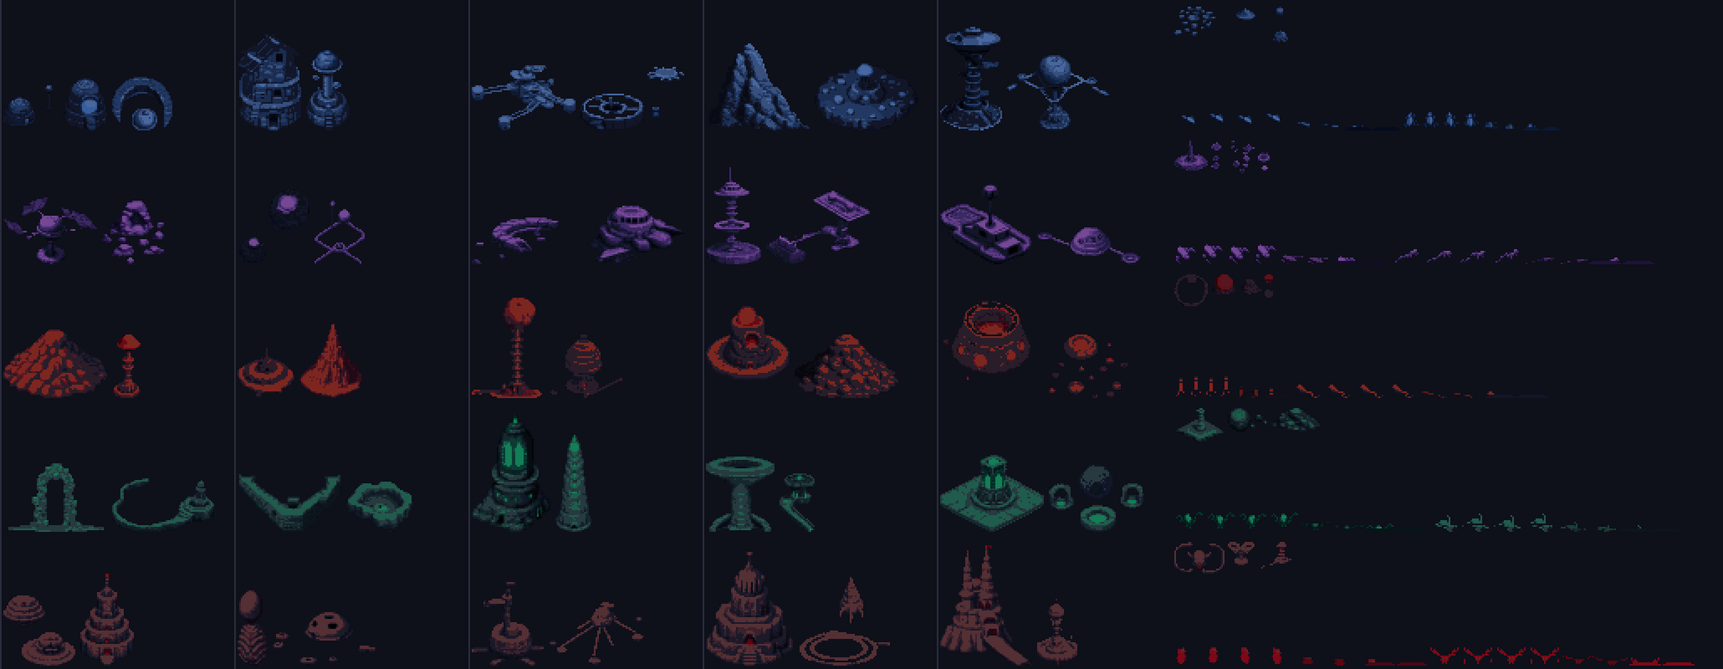
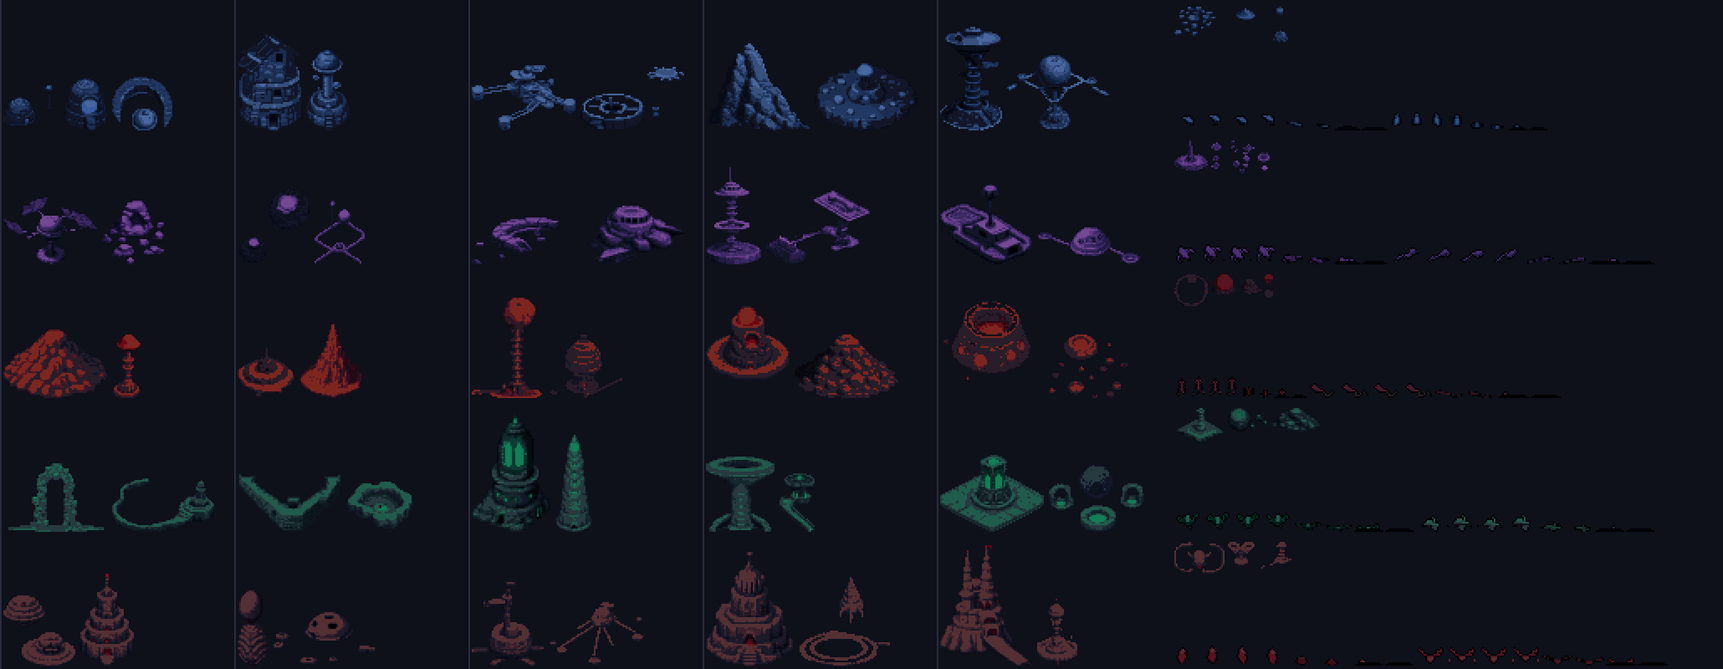
Widen ground banks, mute creatures and tune flyover readability
Regenerate strips with wider ground ledges so creatures fit, cap scenery
luminance and chroma below hostile fire, outline creatures, dash along the
bank when scattering, crop strip draws and veils to save fill rate, and add
review renders (routes grid, travel crossfade, reaction frames).

Tillandsias-Host: macuahuitl
Generated-By: tool=claude-code

diff --git a/lib/game/flyover_atlas.dart b/lib/game/flyover_atlas.dart
@@ -21,33 +21,35 @@ abstract final class FlyoverAtlas {
   static const stripWidth = 64, stripHeight = 192, variants = 3;
   static const layers = ['mid', 'near', 'ground'];
   static const layerSpeeds = [0.2, 0.6, 1.0];
+  /// Widest bank per layer (logical px): strips are drawn cropped to it.
+  static const layerWidths = [62, 58, 41];
   static const sectors = ['krybor', 'ringfall', 'ember', 'hollow', 'carrier'];
   /// Bank edge (logical x) for each sector/layer/variant/row; strips are left banks.
   static const edges = <List<List<String>>>[
     [
-      [r']]]]]]]\\\]]^^^^^^^]\[YYYXXXXXUUUUUUUUTSSRPNLMNNNNNNOQSVWXXXXXXXXXXXXWWVRQRSSSSSSSSTUUUVVXXXXXYYYZZZ[[]_________^]\\\[[[\\\]]^_aabddddddddddddccb[]]^^_^]]]]]\[[[[[Z[\[[\]]^_abcdefffffffffffdcb', r'UTTTSYZ[[[[[[[[[\]^^^^^^^^^]]]]]]\]]]]^^^^^^^^^^^]]\\^`bdeefgggggggggggfedcba`^YYYYYYYYYZ[[[[[[[[[[[[ZYXWTSSRPOOOPQQQQQQQQRRSSSUVXYYYYY^bbbbbbbbbbbbbbba`^^]]][YXWVVWWWWXX[\]]]^^^^^^^^^^^^^^^^^', r'NNNOPPPSZZZZZZZZZZZZYYXWVWXYYYYVVVVWXXXYYYYYYZZ[\\\\\\\\\\\\\\\\\\\\\\\\[[[[[[[ZZZZ[[[\\\]]]\[[ZTTUVVWXY\^_abbbbbbceeeffgiiiiiiiihhhheeefed_^^__\UVVWXYYYYYXYWWWWWWWWWVUTSSRQRSSTUUUUVUSSSSUUVWW'],
-      [r'YYYYYYYYYYYYYYYYXWVUUTSPPPPPOOOOOOOOOQQRSSVWWWWWWWWWWWWWWWWWWWWWVUTSRQPONMMMMMMMMLKKKLMNNNNNNNNOOOOOOOOOOOOOOOONNNNNNNKJJIIIIJJKMMMMMMMNNNNNMMLJIIHHHHFFGGHHIKKKKKKMMLLOPRWXYYXZZYYYYYYYYYYYYYYY', r'OOPPPPPPPPPPPPPOONLLMOPQTUUUUUUUUUUUUUTTTTTTTTTTTTTTTTTTSTTTPPPNNMLLLLKJHGGGGIIKKMMOQSTTTTTTTTTTTTTTTTTTTTTTUUUUTSSSTUUVWWXXXXXXXXXXXXWURQQQQQQQQQQQQPOOOOOOPQQQQQPQQRSSTTTTTTTTTTTTTMLMNOOOOOPO', r'SSSSSSSSRRRRRRRRRRRRRRQQQQPQQSSSSSSSSSSSSSSRJKKKKKKKKKKKKKKKKKKKKLLLLLLLLLLLLMMNNNOOOOOOOOOOOOOOOOOOOOOOOOOOOOOPQRTTUVWXXXXWVVUTSSSSSSSSSSRRQQPPPPPPPQQQQQQQQQQQQQPONMLKKKKLMMNOPQQQRSSSSSSSSSSS'],
-      [r'JJJIIIHHHGGGHGHHHHHHHHHHHHHHHHHHHIIIIIIIIIIIIHHGFFFEEEEEEEEEECBAAAAAABBBBBBBBBBBBBBAAAAABBBBBA@??????ADEGGGGGGGGGGFFFFFEEDBA>>>>????@ABBBBDDHIJJJJJJJJJJJJJJIHHHGGGGFEEFFFFFFFEEEEEFFHIJJJJJJJJJ', r'CBBBBBAAAA?>>>>>??@@@@@@@@@@A@@@AAABCDDDDDDDDDDEFGJJJJJJJJJKKJJJJKJKKKKKKKJJJJJJIIHGGHIIIJKKKKKKKLLLLKKKKKKKKKKLKKKKKKKKKKKJJJJJJJJJIIIIIIIIIIIIIIIIDDDDDDDEEFFFFFFFFFFFFFFFFFFFFFEDCCCCCDDDDDDD', r'@?????@@@@@@@@@@@@A@@@@@@@@@@@???@BCCCCCCBBBBBCCHHHHHHHHHHHHHHHHHHHHHHFEDDEEEEEFGGFGGGGGGGGGGGGGGGGGGGGGGFEEEEEEEEFEEEEEEEEECDDEFGFGGGFFFFFFFGGGGGGGGGHJJJJJJJJJJJJJJJJJJIIIIIIIIHHHHHHGF@@AAAA@'],
+      [r'__`__^\\\]]^__`aaaaaa`_[[[[[[[[[ZYYYXWVUUTSRQQPQRPPRRSTVWYZZZZZZZZZZZYYXWTTTTTTTVWWWXXXYYY[\\^^_`abbbbbbbbbbbb`_^]\\\\\]]]]]___aabddefgggggggfeedcc]^`a`_____^]]]]]\]^\\\]]__aaabceeffhhhhhhhfed', r'WVVVUXZ[[\]]^_____`````````______^____`aabcccccbccccdeefdefhiiiiiiiihhhhgfedcbaYYYZ[[[[[\]]]]]]]]]]]]\[ZYXSSRPPPPQRRRRRRRSSSTUWWY[\^^^_abdddddddddddddddd^^^^][YXXXXYZZZ[\\^___`aaaaaaaaaaaaaaaa', r'PPPQRRRXZZ[[[[[[Z[[[[[ZYXYZ[\^_``aaaaaZZZZZZYZZ[\]^^^^^^_``aaaaaaaa`_[\\\\\\\\\\\[[[[\\]]^__^]]\[[Z[[\\\\^`accccccdhiijjjjjjjkkkkllmmmmlkj^_^^__\UUVWXZZ[[[[[[Z[[[[ZYYXWVUUTSTUUVVVWWXYYYYYYYYXW'],
+      [r'^^^^^^^^^^^YYYYYYYYYYXWWWVSSRRRSSTTTTTTTTTWWWWWWWWWWWWWWWWWWWWWWWWWWVUTSRQQQQRRRRRRPPPPPQRRSTTTTTTTTTTTTTTTTTTTTTTTTTTTTTTTTTTTSTTTTTTTTTTSRQQPONMMMMMMMMLLLLLMMNNOOPPPPQW[\\\\[\\^^^^^^^^^^^^^^', r'QQQRRRRRRRSSSSSSSTUVVVVVVVVXYZ[[[[[[[[[[[[[[[[[[[ZZZZZZZZZZYYYXNNNNNLLLLLLLLMNNNNPQUWWWWWWXXXXXXXXXXXXXXXXXXXXXXXWWWXXVVXYZZZZZZZZZZZZZZZZZZYXWWRRRTTTSSSSSSTUUUUUUUUUUUUUUUUUUUTTTTTSSSOOPPPPPP', r'VTTTTSSSRRRRRRQPPOOQRRSSSSSSSSRSSUVWWWWWWWWVUUTLLLLLLLLLLLLLLLLLLMNPPPPPPPPPPPPPPPPPPPPPPQRRRRRRRRRRRRRRRRRRRRSTUVXXYZ[\\\\[ZZYXWVUTTTTTTTTTTTTTTTTTTTTTTTUUUUUUUUTSRQPOOOOPQQRSSSSSSUVVVVVVVVVV'],
+      [r'OOONNMMLLLLLKLLLMLLKJJKLLMNOPQQQRRRRRRQQQQQQQQQQQQPIHHHHHHHHHHHHIHHHHHHHHHHHHHHFFEEEEEEFFFGGGGGGGHHIKLLLLLLLLLLLLLLLLLLLKJHHGHHHGGHHIIIJKLMOOOOOOOOPPPPPPOPPPOOOOOOONMLMLLLLLMMMMNOOOOOOOOOOOOOO', r'EEEEEEEEDDDDDCCDEFFFGHGGGGGGGGGGGGGGGFGHIIHJJJJKKLLLLLLLMLLLLPPPPPPPPPPPPPOOONLKKKKKKKKKLMMMMNNPQRRRRRRRRRRRRRRRRRRRRQQQRRRRRRQRRRQQQQQQQPJIIIIIJKLLLLLLLLLLLLLLJJIIJKLLLLLLLLLLLKJJJJIIHGFEEEEE', r'JHFFDDCCCCCCDEEEEEEEEEEDDCCCCDEFFGGGGGGGGGKKKLLLLLLLLLLLLLLLKKKKLLMNNMMMMMMMMLMMNNNNNONNNNNNNNNNNNNMLLMMLMLLLLLLJJJJJIIJJLOPPPPPPPPPPPPPPPPQQQQQQQQPQQRRRRRRRRRRRRRQPPPPPPPPPPPPPPNMLLMMNNNNMLKK'],
     ],
     [
-      [r'UUUUUVVVVVVVVVVVVVVVVVVVVVVVVVVVVVVUUUTUVVWXZ[[[[[[[[ZYYXWWWWWXYZ[\\\\\\]^_abbbbcccdeeeeeeeedcbbaa``________________^^^^^^^^^^^^^^]]]]]]^^^^^^\\\\\\[[[[[[[[[[\]]^^^^^^^^]]\XWXXXXXWVUUVWWWVVVVU', r'YYYYYYZZZZZZZZZZYYXVUTSRSSTUTTSTTTTTTTTTTTTTTUUUWXYZZ\]_``````_^]]]]]]^abcdefffffffeedd_^]\\\[YZZZZZZZZZZZZZZZYYYYYYYXYYZZZ[\\]^^^^^^^^^^^^]]]\]]]]]^_````______^^^^]\[[[[\\[[[ZZZYYYYYYYYYYYYYY', r'ccZXVTSRPONNOOOOOOOOOOOPRSTVWXXXXXXYZ\]^^^]]]]]\\\[ZZZYXYXYXXYYZZZ\\\\\\\\\\\\]]]]]]]]]]]]]]]]^^____``acddeeeeeeeeddddddcbbaa_^^][[ZXXVUTSTUUUUVWWWVVWWXWWXWWWWWXXXWXXXXXXXXXXYYYYYYZ[\]]]]_`bcc'],
-      [r'\\\\\[[[ZZZZYXWVVTSRQQPOOOOOOOOOOOOOONNMMKIJKKKKKKKKKKKKJJJHHHHHHHHHHHHHHFFGHJLMNNNNMMLKKKLLMNOOPQQQQRRRRRRQQQQQQQRSTTTTTTTTTTTRRRRRRQQQPONNNNNNNNNNNNNNNNNMLLLLLNOPPPPPPPPPNOPPPQQQQSUVVVWXY[\\', r'MMMNMMMMMMMMMMLLOOOOOOOOOPPPPPMNPPQQQQQQQQQQQQQQPPOONNNNNNMMNNOQSTUUUUUUUUUUUUUUUUUUUUUUTTSRPONMLLKJJKKLNNNMMMLKJJJJJJKKKKKLMMPRVXYYYYYYYYZ\^`aabbbbbbbbbba`a`__^]][ZXVTSRPOONMMLKKKKKJIIIIJKKKL', r'SRLKJJIHHGFFFFEDDDDCBBA@ABCEEEEGHJNOPQRSSSSSSSSSRRQQQQQQPPOOOOOMMMMMLKJJIGFFFFFGHIJKLMMMMMMMMMMMMLKKKJIIHGGHIJKLNOPPPPPPTUVVVUUPPPONNNNMLLLQTTSSSSSRSSSTSRSTUWXYZ[[[[[[[ZZZYYXWVUUUUUTTTSSTTTTTT'],
-      [r'JJJFEEEEEEEEEEDDDDDDDDDDDDDDDFGGGGFGHHHHHHHHHHHHHHHHHHHHHHHHGGGGGFFFFEEEEEEEEEEEEEFFFFFFFFFFFFFFFFFFFFEEDCBAA@@??>?????@@?@@@@@@@@@@@ABCDEEEEEEEEEEEEEEEEEEEEFGHHJJJJJJJJJJJJJJJJJJJJJJJJJJJJJJJ', r'JJJJJJJJJJIGFFEEEEEDCDDCBA@@@BBCCCCCCCCDDDDDDDDDDDDDDDDDDDDDDDDCC@@@?@@@@@@@@@@AACDDDDDDDDDDDDDDDDDEEEEEEEEEEEEEEEEHIKLLLLLLLLLLLLLLLLLLLKKJIIHHIIIIIHGGEDDDFGHHHHHHHHHHHHHHHHHGGHHHHFGHHIIJJJJJ', r'RRRRQPMMMKKJJJJJJJJJIGFDDCCCDDDCCBBBBBBAA@>>>>>>>>>>>?????@DDDEEFGFFFFFFFFFFFFFFFFFFFFFBBBBBBBA@??????>>>???@@@@@ACBBBBBBBBBBBBBCCCDDDDDDDDDDDDDDDDDDDDDDFHHHHHHHHHHHHHIIIIIIIIJJJLPQRSSSSSSSRRR'],
+      [r'XXXXXXXXXXXXXXXXXXXXXXXXXXWWWWWWWWWWXXXYZ[\]]]]]]]]]]\[[ZYYYYYZ[\\\\\]^__abcdddddddddddddddddcbba``_^^_```````aaaaaaaaaaaa``__^^^^^^^^^^^^^^^^^^]]]]]]]]]]]^^^^^^^^^^^^^^]]YXWXWXYXXXWWXXXXXXXXX', r'YYYYYYXXWWWWXXXXXVVUTSSSSSSSSTTUVVVVVVVVVVVVWWWY[[\]]]]_`aaaaaa````___`abcdfghhhhhhgggggggfedcaa`________^^^]\[YYYYYYYYYZZ[\]^^^^^^^^^^^^^^]]]]]]]^^__aaaaaaaaa```_^^^]]]]]\\[[[XXXXXXXWVVVWXXYY', r'dd\ZXVUTRQPOOPQQRRRRSSSSSTUVWYZ[______________^]\\\\\\\\\[ZYYYYZZ[\\\\\\\\[\]]]]]]]]]]]]]]]]]]^__`abbbcdeeeeeeeeeeeeeeeecbbaa`^^]\[ZZZXWVUVWWWWWWWWXXYYYYYYYYYYYXXXXXXXXXXXXXXXXXXXYZZ[[[[]_`bcd'],
+      [r'````_^^^^^^]]\[ZYXWVUUTSSSSSSSSRQQRRRRRQQQRRRRRRRRRQPONNNNLKKJJJKKKLMMMMMNNOPPPPQRSRQQPOOOPQQRSSTTTTTTSRRRRQQRRSTUVWXXXXXXXXXXXVUUUUUUUUUUUUUUVVVVVVVVVVVVVVVUUUUUUUVVWWWWWWWWWWWXYYYZ[\]^___```', r'QQQRSSSSSSSSRRQQRRQQQQQQQQRRRSTTTTTTTTTSSSSRRQQQPPQQQRTUUUUUVVWWWXXXXXXXXXXXYYYYYXXXXWWWVUUUUSSRQOPPOOOOOPQRSSTTTTTTTTTTUWXXYYZZZZZ[[[[[[]bdfghiiiiiiiiihhgfffffdcbZ[[ZXWVTSSRQQPOOOOONMMMMNOOOP', r'UPPONNMLLKJJJJIHHHHGFFEDGIJLLLLMNNOOPQSVVVWWWWWWWWWWWVVVVVUUTTSRQQQQQQQQQQQQQQQQQQQQQPPPPPPPPPPOOOOOOOPPQQQQQQRRSSTTTTTTTUXZZ[[[[[[[[[[[ZYYYYXWVVVVVVVVVVVVVVX[]^^__________^]\ZYYYYZZYYYYYYYXXX'],
+      [r'NNNNNNMMMLLLLLLLMKKKJIFGGHJKKKKKKKLMNOOOOOOOOOOOOOOOOONNNNNMMLKJJIIIIIIIIJJJJIIIKKLMMMMMMMMMMMMMLKJJJIIIIIHHGFEEEEEFHIIJJKKKKKKKKKJJJJJIIIIIIIIIIIHHGGGGGGGGGGGHJMPQQQQQQQQQQQPPPONNNMMMMMMMMNNN', r'OOOOOOOOOMLJIHHHHHHGGGGHHJKLLLLLLLLLLLLLLLLLLLLLLLLLLLLLLKKKJJKJJIIIIIIHGGGGGHHHIIIIIIIIIIIIIIIIIJKKKLLLLLLLLLLLLLLNNRRSSSSSSSSSRRRRRSTTSRQPOONNOOOOONMNLLLNOOOOOOOOPPPPOOOOOONNNLLLLLMMMMMNOOOO', r'XXXXWVVVUUUUUTTTSSRQPPOONMMLKKJIJKKKLMMLLLKKJKKKKLLLLLLKKKLLLLLLLLLLLLLLLKKKJJJJJIIIHHHHGGFFEDCBA@@AABBBBBBBBBBBCDEEEFGHIIIIIIIIIIIIHHHHHHHHHHHIJJJJJJJJJJKLLLLLLMMMMMMMMMMMMMNNOSTVWXXXXXXXXXXX'],
     ],
     [
-      [r'UVVWWWWWWWWWWWWWWWVWWY[\`aabbbbbbbba`__^^__`_]\^^^_^^]]\\\\]]]]]]]]\[XVUTTTUUUUVWWXXXXXXXWWWWXWVVVVVWY\^````aaaaaaa__^]\[ZZZZZZ[[\\\\\\\\\[ZYXXWVVWWXXXXXXXXXWVUSRQQQQPOPQQQQQQPQQSSSTUUUUUUTSST', r'`_]_][[ZZZZZWVXYZYYYXWVVUVUUUSRRSSSUTTUWXYZZZZZXWTSRQPPOOQQSWWXXYYXXYZZZZYYWWWVVVVUTTTTTTUVVVVVVVVVZ\\\\^_``abbcdddddddddddddbbaXVUTSRRRRSTTUVVVVVVUVVVTTSTTUVWXXYZZZ[\\\\\[\ZYVVVWXY_`abccdeeeb', r'[[]^`cdeffggggggggggggggfedcba`^]]]]\[[\]]]^___________]]]]]]\\\\[ZZXXXXYYYXWVTSSRRRRRRRQPPONNNOOPPPPPNNMMLKKKKKLLLMMNNOPVVXZ[[[\\\\[[[Z[ZYXXWVVWWWXZ[\\]]\\\\\\\\\[ZYXWWXYYYXXXXXWWVVUVVVWWXYZ['],
-      [r'RRQRRQPQQQQPOOPQQRSTTUVUUUUUUUUVUUVUVVVVVVUVVUUUVUUVVVVVVWVVVUVVVVUUUUUUUUTNNONNNNNNMNOPQQQQRQQQQQQRRRRQQRRQQQQPPQPOONMMMMIIIHHJJJJKJJIJJJKLMLMLMMNNONNNNNNNNOOOOOOQQRSSTSSRTTTTSSSSSRRRRQOPPPPR', r'KKKLMMMMMMMMMMMMMMMMMMMMMMMNNNNNNNNNMMMMMMMMMMMNNNNNNNNNNNNNNNNNNNOQUUUUUVUUVVVVVVVVVVVVVVVUUVVVVVVVVVVVVVUUUUVVUVVVVVUVVVWVVWWVVVVVVVUUVWVVVVVVVVVVVUUUUTSSRQQOMNNOOPQRSSSSSSRQQQQPOONMMLKKKKKK', r'QPONLKJHGGGHIIJKHIHGGFGHKLMMNOOOOOOPPOOPPPPPPPPQQQQQPOPQPQPPPRTTTTTTTTTTTTTTTTTTTTTTTTTTTTTTTUTUUUUTUUTSSSSSSSSRSSSSSSSRQQQQQPOPQQRSSTTUUTTTTTTTTTTTTTTTTTTTTTTTTTTVTTTTTTTTSRQQPOOOPQQQRSSSSSSR'],
-      [r'GGGGGGGGGGGGGGHIHHKKKLMMMLMMMMMMMMMMLKKKJIIHGGGHIIIIIIIIIIIIIIIHGGGGGGFFGGGGGGGGGGFGGGGJKLMNOOOOOOOOOOOOOOOONMLKJIHGGFEDCC@CCCCCCDEEEEFGGFFFFJKKKKKKKKJIIIHGFEEDCCBBCDEEFGGGGGGGGGGGGGGGGGGGGGGG', r'GGGGGGGGGGGGHIJKKLLMMMMMMMMMMLKKJIHGFEEEDEEEFGGGGHIIIIIIIIIIIHGGGGGFEEEEEEEEEEEEEEEEEEEEEEDCCCCCCDEEEEEEEDEEDEEEEDFGGHIIJKKKKKKKKKKKKKKKKKKKKKKKKKKKKKKKKKKKKKKLMMMNOOOOOOOOOOOONMMMLKKJIIHGGGGG', r'CCBAAAAAAAABCCCCEEEEEEDEFGGFFGGHIIIJJJJJKKKKKKKKKKKKKKKJKKIKKKKKKKKKKKKKKJIIIIHGGIIIIIIIIIIIIIIIIIIIHGGGGGGGGGGGGGGGGGGGGGGHHIIKKLMMMMMMMLMMMLKKJIHGFEEDEEEFGGGGGGGGGGGGGGGGGGGGFEEEEEEEEEEEDCCC'],
+      [r'UVVWWXXXXYYYYYXXXYYYZ\abcccddddddcccba```acb_]\^^^_____`abbbbbbbba_][ZYYXWWVVUUWWXXXXXXXXXYYZZ[[^_`abccdddddddccbbaa`]]\[[[\\\]]]]]]]]]]]]\[YXXWWWWWXXYYYYYYYXWUSSSRSSTTTTTSRQQQQRSTUVVVVVVUTSSS', r'ca^^]\[[[[ZZYZZ[[ZZZYXXXXXWWWVTSSSTUVXYZZZ[[[[[[[[[[[[ZZYXXWWXXXYZ[\\\\\\\[[[[[\\\\]]]]^^^^^^]]]]\[[[[\]^abccdddddddddddddddddddcba`_\TSRSSSSTTTTUUWXYZYZ[[[[[[[[[ZYXXXYZ[[[[[ZYYYY[\]]]^deeeeed', r'^^^_acehiiiiiiiiiiiiiiiihgeddbaa`___^]]^________________^]]]]\[[[[[ZZZZ[[Z[[[ZZZZZZZZZZYYXXXWVUTTRQQPONNMMLLLLMMLLLMMNNOPUVWZ[\\]]]]]]]\[ZZZZYYYXXYYZ[]]]]]]]]]]\\\\\\[ZZZZZZZYYZ[[[[[ZYYYZ[[\\]'],
+      [r'UUUUUUUUUUUTSSTUUVVWXXWWWWWWWWWWWWWXXXXXXXXXXXXXXXXXWWWWXXWWWXXXWXWWVWWWWWWWWWWVUUOOOPQRRRRRRRRRRRRRSSSRRSSSSSRRRRRQQQPOPPONNMLLLLLLKLLLLMNOOOOPOOOOOPPPOOOOOPPPQQQRSUVVWWVWVVVVVVVVVVVVVVVVVVVV', r'OOOPQQQQQQOOOOOPPOOOOOPPPPOPPOOOOOOOPOOOOPPOOOOOOOPPPPPPQRRRRRRRRRRYZZZZ[[ZZZZZZZZZZZZZ[[[[[[[[\[[[[[[[[[[[[[[[[[[[ZZVVWWWWWWXYYYYYYYYYYYYYYYYYYYYXXXXXXXXWWVUUTSRRSSTUVWVVVVVVUUUUTSSRQQPOOOOOO', r'TTSRPONLKKKLMMNNNNNNMMMOQQQQRSRRRRQRRRSSSSTTTTUUUUUUTSTUUVVWWWWXXXXXXXXXXXXXXXXXXXXXXXXXXXXXXYYYYYXYYXXWWWWWWWWWWWWWWWWVUUUUUTSTUUVVVVUUVVWWXXXXXXXXXXXXXXXXXXXXXYXXXXXXXXXXWVUUTSRPPQQQRRRSTTTU'],
+      [r'MMMMMMMMMMMMMMNOOPQQQRSSSSSSSSSSSSSSRQQQPOONMMMNOOOOOOOOOOOOOOONMMMMMMMMMMMMMMMMMMMMNOOPQRSTUUUUUUUUUUUUUUUUTSRQPONMMLKJIIIIIIIIIJKKKKLMMMNNNPQQQQQQQQPOOONMLKKJIIHHIJKKLMMMMMMMMMMMMMMMMMMMMMMM', r'MMMMMMMMMMMMNOPQQRSSSSSSSSSSSRQQPONMLKKKJKKKLMMMMNOOOOOOOOOOONMMMMMLKKKKKKKKKKKKKKKKKKKKKKJIIIIIIJKKKKKKKKKKKKKKKKLMMNOOPQQQQQQQQQQQQQQQQQQQQQQQQQQQQQQQQQQQQQQRSSSTUUUUUUUUUUUUTSSSRQQPOONMMMMM', r'IIHGGGGGGGGHIIIJKKKKKKKKLMMMMMMNOOOPQQQQQQQQQQQQQQQQQQQQQQQQQQQQQQQQQQQQQPOOOONMNOOOOOOOOOOOOOOOOOOONMMMMMMMMMMMMMMMMMMMMMMNOOPQQRSSSSSSSSSSSRQQPONMLKKJKKKLMMMMMMMMMMMMMMMMMMMMLKKKKKKKKKKKJIII'],
     ],
     [
-      [r'_______________ZYYYYYYYYZ[[\]]]]^]]]]^^^^^^^^^^^^aaaaaaaaaaaaaaaa`_\\[[[[[\\]]]]]]]]]]\[ZYXVUTRQQPQQRSSSTUUUUUUVVVWYZZZZZ[\]^^_aaaaaaaa`_^]\[ZYYZ[[[\]]]^___[[[[[[[[\\\\\\\\\\]]]]]\\\\]]]]]^___', r'[\]][[ZZZZYYYYYXWWWWWVVVVVVWXZZ[[[[[\\\]^^^^^^^^^^^^^^[\\\\\\[[ZZ[\^__```aaaaaaaaaa`_____ZZZZZ```aaaaaaaaaaaaa`__^]]][[XXXWWWXXWVVVVUSSRQRSSTTTU^_`abcdeeeeeeeedcccba`aaaaaa`_^]\[ZYXWVUUUUVWXYZ', r'[[[[[ZYYYYYYYWVVVUSSSSSRRRRSSSTTUUUUUUUUUUUURQRRRSSSSSSSSSTUWXYYYYYYYYYYYYYYYXXXYZZZZZZZZZZZZZZZZZZZZZZZ[`cefgggggggggggggggggfedccbaaaaaaaaa`__^]]]\[[[[[[[[[[[[[[[ZYXWVUTRQPPQRTUVUSSSSUUUUUUV'],
-      [r'XXXXXXXXXXXYZZZaaa`___^^^^^]YYYYYYXXXXWWWVVVVWWWWVUUUTSSSSSSSSSRRQQQQQPOONMMLKKKKKKKKKKLLLKKKKKKKKNPQQQRRRRRRRRRRQQQQQQQQQPOOOOOOOOOOOOOONMMMMMLMLKKKKJKKKKIIHHHHHHIKKLMMMMMNNRSSSTTTTTTTSTTUUUU', r'XXZZYYYXWWVUUUUUTSSRRUUUUVWWWWWWWVUUUTPPPQPONNOOOPQQQQQQQPPLNOOOOOOORRRRSSSSSSSSSSRSSSSRQQPOOOPQQQQQQQQNNNMMMMMLLHHHHFFFFFFFFFFFFEDDDDKMMMMNOONNPPRWYZZZZZZZZZZZZZZZZZZZZYYXUUUUTUUUUVVWXXXYYYYY', r'WXYYZZ[\\\\\\\\\\\\XXWWWUUUTSSRQQPOOLLLLLLLJHHHHHHHHHIIIKKLMMMMMMMLKKJJKKKKKKKJKKJJJJKKKKKKKKKKKLLLLLLLLLLLLLLLLLLLLLKJIHHHIJJJJKNNNOOOOOOOOOOOPPPPPOOPRRSSSSSTTTTTTUVWXYYYYYYYYYXXXVVVVVVVVUUVW'],
-      [r'GGFEEFGGCCCCCCCCDDCC@@@@@@@@@@@@@@@@?????>==:::;<<<<<<=>>>>?@BDDEEEEEEEGGGGGGFEEDCCCCCCCCCC>>>??????>?????????BCDDEEFEEEEEEEEFFFFFHIJLLLLLLLLLLLLLLKKKKKKKGGFDDDFHHHHHHHHJJJJJJJJJJJJJJIIIIJJJIH', r'KKKKKKKKKKJIIIHGGGGDDDDDDDCCCCCCCCCDDBCDDDDDDDDDEEFFFFFFFFFFFFFEEEEABBBBBBBBBBBBBBBBBBBBCCCCCCCCBBBBBBCCCCCCCCCDEFFHHHHHIIIIIIIIIIHHHHEEEEEEFFFGGGGGGFFFFFFFGHHHHHHHHHHHHHHHHHHHHHHHIIJJJJKKKKKK', r'DDDDDDDDDDDDDD@AAAAAAACDDDDDDDDDDCDDEEEEFFFFFHHIIIIIIIIIIIIIHHHIJJJJJJJJJJJJIIIEEEEEEEEEEDDCDDDDDDDDDDDDDFFFFFFFFFFFFFFFFFEEEFFFFFFFFFFEBBCCCCCCCCCBBBBBCCCCCCCCBFFFFFFFFFFFFFFFFFFFFDDEEEEEEEEE'],
+      [r'````````````````_]]ZYYYYZ[\]^___________________`abbbbcbbbbbbbbbbbaa`]]]]]]]]]^^^^^^^^^]\[ZXWUTSSRSSTTTTTTUVVVVWXYZ[[[[[[[]]__`aaaaabbbba`_^]\[[\]]]^___`aaaaaa`_^]]\\\\\\\\\]]]]]]]^^______````', r']^^^^^^^^[[[ZZYYYYYYYYYYXXXYYZ[[[[[[\\\]^^____````````````_^]]]\\]^^__aaaaaaaaaaaaaa__]\\\\\\\`bccccccccccccccbaa`_____^\[ZZZXXXXWWWWVUTSTVVVW\^`abcdeeeeeeeeeeeeeedddddccccba`_^]\[ZYXWWWWXYZ[\', r']]]]]\[[[[[[[[[[[[[RQQQRRRRSSTTTUUUUWXXYYYYYXXUUUSSSSTTTTUVVWX[_`aaaaaaaaaaaaaaaaa`\\\\\\\\\\\\\\\\\\\\\fhhhhhhhhhhhhhhhhhhhhhhgfeecbaaaaaaaaaa_`___^]]]]]]]]]]]]]]]\[ZYXWVQPQRSRRRRRRSTUWWW]]]]'],
+      [r']^_____aabcddddddddddddddcbaa`___^]]]]]]]\\[ZZXXXXXXXXWWWWWVVVVVUTTTTTTQPOQPPOOOOOOOOOOPPQQQQQQRRPPQRSSSSSSSSSSSSSSSSSSQQQQQQQQRRRRRRRRRRRQQQQQQQPMMMMMLLLLLLLLMNOOPPPPPPQRSSSTTTVVWWWWWWWWXXX[]', r'^^^^]]]\[[ZYYYYYXWWWXYYYYZ[[[[[[ZYXWVVUUUUTSQQSSSTSTSSSSSSSSRRQRRRRRSTUXXXXXXXXXXXXXWWWVUUTSSSTUUUUTTSSSRQQQQPPOHHHHHGFDDEFFFPPQQQQQQQQQQQQRTTUVVWX[\\\\\\\\\\\\\\[[[[[[ZYZXYYXXZZYYYYYXYZZ[\]]^', r'[\\\\\\\\\\\\\\\\\\\\[ZZZYYWWSSSSSSSRQQQPPQQQQQQQQQQQQQQQQQQMMMMMMMMMMLNNNNNNMMMMMMMOOPQSUUVVVVVVVVVVVVVVVVVVVVVUUTSSTUUUUUUUUUUUUUUUUUUTTSSSRRRRQQQRRSTTTTTTTTTTTTTTWY\]]]]]]]]]]]]]]\[[[[ZYYZ['],
+      [r'KKKKKKKKKKKKJIHIIHDCBBBCCDDGGGGGGGHIIIIIIIIIIIJKKKKKKLMMMMLMMMMIJJLMMMMMMMMMLKIGGGGGGGGGGGFFDEEEDEEEEEFFGHHHHHHHHHHHHHHHGGGGGGGHHMNOOOOOOOOOOOOOOLLKKKLNNNNNNNNNMMMLLMLLKKKLMMMMMMMMMLKJJIIIIJJK', r'ONNNMMMMLLLKKKKKJIHIIIHHHGGFFHHHIIIIIIIIIIIJKKKKKKKKKKKKKKJJIHHHIIIIIIIIIIIIIHIIIIIIIIHHHHHHHHHHHHHGGFFFGGGGHHIIIKNNPPPPPPPPPPPPPOOOOOOOONNNNNNNNMMMMMLKKKKKKLMMMMMMNOOOOOPPPPPPPPPQQQQQQQQQQQQQ', r'IIIIIIIHHHHHHHHHHHGFGFGHGGGIIIIIIIIHHHIIIIIIIIIIIIIIJJJJKLLLLLLLLLLKJJJIIIIIIIIIIIIIIIIIHGFFEEIIIIIIIIIIIIIIIIIIIIIIIIIIIIIIIIIGGFFFGGGHIIIIIHGHHGHHHHIIIIIIIIIIIGHHHHHHHHHHGFFGGGGFGGGGHHHHIIII'],
     ],
     [
-      [r'aa````YYYYYXXWVVVUUTLLLLNOPPPPPPPPPPPPPPPPPPPPPRTTUVVVVVVVVWXXXXXXYZ[[[[[[[[[[[[[[[[Z[[[[ZYZYYXWYYYZZZZZZZZZZZZZZZ[[[[[[[[[[[ZZZZYYYYYZZZYXWWXYZZZZ[]^```````````````_______bbdeeeeeeeddddddccaa', r'_\\\\\\\\\\\\\\[[[ZYYYYYYYZZZZZYYYXXXXWVTSRRRRRRSTTTTTSRRRRRRRRRQQPNOOOOOOPPQRRRRRRRRRRRRRRRRRSTUVWXXXYZZZZZZZZZZZZZZ[\\\\\\\\\\\\\\\\\\\\\\\\[\\]]]]]]]]]]]]]]]^__`````````````````````````____', r'______^UUUUUUUTTSSRRRRRRRRRQPQQQQQQQRRRRRRRRRRRRSTUUUVWXYZ]_____`bdffffdcb`__^^^^^^^\\\\\\\[[[[ZYRRRQQQQQQRTUWXXXXXXXXXXXXXWUUUUUUUTTSRTUVVXXXYYYYYYZZ[]^^^^^^^^^^^^^^^^]]\]]^^^________________'],
-      [r'MMMMMGGDIIHHHGGFFFJJKKKKKLLMMOQQQQSWXYZ[[[[[[[[[[[[[[[ZYYYXWWWWVUUUTUUTUUUUUUUVVWXYYYYYYYYYYYYXXXWWWWVUUUSSPOOPOONNMLLLLKKJHIHGGGGFEEEDDDCCCDEHJKKKKKLLLMMNNPRSSSSSSSSSSSSRRQQPOOMMMMMMMMMMMMMMM', r'UUUUTSSRQPONMMLKKKLMMMMMMMMMMMMLLLLKLLKKKKKLLLLLLLLKJJIJJKKJJKLLMNPQQQRRRRRRRRRRQQQQQQQQQQQQQQQQQQQQQPNMMNOOOOOOOOPPPQQQQQQQQQQQPONONNNNMLOOOOPPQQQQQQQQQQQQQQQQPNMLOOOONMLLKKKJJKLMMNNOPPPQQQQU', r'RRRRRQPPPPPPPPPPPPPPPPPPPPPPPPPPPQQQQQQQQQQQQQQQQQQQQQQQNQQQQQQQOOOQQQQQQQPPNNMLLLKIJHHGGIHIIIIHJKOOOOOOOOOONOOOOOOOOOOOOOOOOONNNNNNMKJIHHGGGGGGGGGGGHHJJJJJJJJMMNOPPPPQQQQQQQQQQPPOOOOOOOPPPQRR'],
-      [r'DDDDDDDDBDCDDDDCDDDDDDDDDDCDDDDDD;;;;;;;;;;;<>>=BCCCDDDEEEEEEEEEEEEEEEEEEEDBBCDDDDEEEEEEEEEEEEEEEEEEEEFFFGHHHHHHHHHHHHHHHHGFEDCBA@BBBBBBBBBBCCCCCCCCCCDDD<=>>>>>>>>>>>??@@ACDDDDDDDDDDDDDDDDDD@C', r'EEEEEDCCCDEEFGGHHGHHIHHHHHHGGHHHHHGGGHGHHHIIIIIIIIIIIIIIIIIIIIIIIIIIIHIIIIIIIIIHGGGGFGGHIIIIIIIIIIIIIIIIIIIIIIIIIIIIIIIIIIIIIHGGGGFGGHIIIIIIIIIIIIIIIIIIIIIIIIIIIIIIIIIIIIIIIHGFEEEEEEEEEEEEEEEE', r'GFGGGGFGGGGGGGGGGGGGGGGGFGGDEGGGGGGGGGGGGGGGGGGGGGFEEDCC><<=>>?@@@@@ACCCDEEEEFGGGGGGGGGGGFGGFEEEDEEFGGFGGGGGGGGGGGGGGGGGGGGGGGGGGGGGGGGGGGGGGGGGFFGGGGFGGGGGGGGGGGGGGGFEEDBEEFGGGGGGGGGGGGGGGGGG'],
+      [r'eeeeee^^]]]YYYY[[YXVUTOOOPPQQQQQQQQQQQQRRRSSUUUUUVWY[\\\\\\\\\\\\\\\\\\[[[[[[[[[[[[[[[[[[[[[ZZYZZZ[[[[[[[[[\\\\\\\\\\\\\\\\\\\\\\\\\\\\\[[ZYYZ[[[[[\^_________```aaaabcefggghhhhhhhhhhhhgggfeeee', r'\\\\\\\\\\\\\[[[[[[[[[[[[[[[[[[[[ZZZZYYWWWTTTTTTUVVVWWWWWWWWWWWVTSRPQQQRSTUVVUVVVVVVVVVVVVVVVVVVWXYZZZ[\\\\\\\\\\\\\\\\\\\\\\\\\\]]^_`aaaaaaaaaaaaaaabcdeffffffffeeeeeedcccccdeeeeeeeeeedccbaaaa', r'______]]VVUTTTSRRRRRRRRRRRRRRRSSSTTTTTTTTTUUUUUUUUUVVWWX\^^_____bdfhhhhfedba`_____^^^^^^]]]]\\[ZZZYYSSSSSSTTUVVXXXXXXXXXXXXXXXXXVVVVVVVVVVWXXXY[\\^_`````````````````_____^^^^^^________________'],
+      [r'OOONMHIJIIIHHHHHHHIJLLLMNNNNNOQQQTVXX[\\\\\\\\\\\\\\\\[[[[[ZZYYYXXWWVVVVUXYZ[\\]]]]]]]]]]]]]]]]]]]\\\[[[[[[ZYYXWVVVUTTSSSSRRRQPPPPPONNNNNNMMMMMMNNNNNPQRRRSSSTTTTTTTTTTTTTTSRRRQQQPOOOOOOOOOOOOO', r'RSSTTTTTTTSRQQPOOOPQQQQQQQQQQQQQQQRSSTTTTTTTTTTTTTTRRPPPPPJKLMNOPQRSTUVVVVVVVVVVUTTSSSTTTTTTTTTTTTTTTSRQQPPPPQRRRSTTTTTTTTTTTTTTTTTTTTTTTTTTTSSTTTTTTTTTTTTTTTTSSSSSSRQQPMMLLLLLMNMMMNNOPPQQPPPP', r'VVVVVUTTRQPPPPPPPPPPPPPPPPQRRRRRRRRRRRQPPPPQRRRRRRRRRRRRRQPPPPPPPPPPQRRRRRRRRRQPPPPPPPPMPPPOPPPPPPPPPPPPPPPPPPPPPPPPPPPPPPPPPPPPPPPPPPPPPPPPPPPPPPPPPPPPPPPPPPPPPPPPPPPPPPPPPPPPPPPPQRRRRSTTTUVV'],
+      [r'GHHHHHHHHHHHDDIIJJJJJJIHHIIIIIIIIF@@@@@?>>>>>EFEFFDEJKKLMNOOPPPPOPPPPPPPPPPPPPOMHGGHIJLMMNNNNNNNNOPPPPOPPOPPOONNNNNNNNNNNNMLKJIHGJLLLLLLLLLLLLLLLLKJHHGFEEEFFFFFFFFFFGGGGGGHHHHHHHHHHHHHHHFFFFFF', r'HKKKKJIIIFKKKLLLLLLLLLLLLLLLLLLLLLKLLLLKLLMMLMMMMMMLMMMMMMMMLMMMMMMMMMMMMLMMMMMMLMLLLLLLLKLLLKKKLLLKKKJJJJKKKLLLLKLLLLLLLLLLLLLLLKLMMMMMMMMMMMMMMMMMMMMMMMMLMMMMMLMMMMMMMMMMLLLLKKKKKKKKKKKKKKKK', r'LKLMMMLMMMKLMMMMMLMMMMMMLLLLLLLLLLLLLLLLLLLLLLLLLLLLLJIIGGGGGHIIIIIIIIIIJJJKKLLMMMMMMMMLLLLLLKKKJKKJJKKLLLLLLLILLLLLLLLLLLLKLLMMMMMMMMLMMMMMMMMLMLMLMMMMMMLMLMMMLLLLLLLKKJJKKLLLLLLLLLLLLLLLLLLL'],
     ],
   ];
   static const sprites = <FlyoverSprite>[
@@ -118,15 +120,15 @@ abstract final class FlyoverAtlas {
     FlyoverSprite(4, 4, 'flagship-escort', 430, 129, 24, 40),
   ];
   static const creatures = <FlyoverCreature>[
-    FlyoverCreature(0, 'frost-hopper', 'walk', 0, 16, 14, 8),
+    FlyoverCreature(0, 'frost-hopper', 'walk', 0, 15, 14, 8),
     FlyoverCreature(0, 'shell-crawler', 'crawl', 15, 11, 13, 8),
     FlyoverCreature(1, 'rock-mite', 'walk', 29, 15, 13, 8),
-    FlyoverCreature(1, 'dust-grazer', 'crawl', 43, 19, 10, 8),
-    FlyoverCreature(2, 'cinder-newt', 'walk', 54, 8, 14, 8),
-    FlyoverCreature(2, 'ash-borer', 'burrow', 69, 18, 10, 8),
-    FlyoverCreature(3, 'spore-crawler', 'crawl', 80, 18, 13, 8),
-    FlyoverCreature(3, 'bone-skitter', 'walk', 94, 18, 14, 8),
-    FlyoverCreature(4, 'brood-larva', 'crawl', 109, 18, 13, 8),
-    FlyoverCreature(4, 'hive-tick', 'burrow', 123, 19, 14, 8),
+    FlyoverCreature(1, 'dust-grazer', 'crawl', 43, 19, 11, 8),
+    FlyoverCreature(2, 'cinder-newt', 'walk', 55, 9, 14, 8),
+    FlyoverCreature(2, 'ash-borer', 'burrow', 70, 18, 11, 8),
+    FlyoverCreature(3, 'spore-crawler', 'crawl', 82, 17, 13, 8),
+    FlyoverCreature(3, 'bone-skitter', 'walk', 96, 17, 14, 8),
+    FlyoverCreature(4, 'brood-larva', 'crawl', 111, 17, 13, 8),
+    FlyoverCreature(4, 'hive-tick', 'burrow', 125, 18, 14, 8),
   ];
 }

diff --git a/lib/game/flyover_background.dart b/lib/game/flyover_background.dart
@@ -145,6 +145,7 @@ class FlyoverBackground {
   }
 
   void _paintStrips(Canvas c, ui.Image image, int sector, int layer) {
+    final width = FlyoverAtlas.layerWidths[layer];
     final transforms = <RSTransform>[];
     final rects = <Rect>[];
     for (var side = 0; side < 2; side++) {
@@ -155,13 +156,16 @@ class FlyoverBackground {
         final v = _variant(sector, layer, side, k);
         final top = (520 - ((k + 1) * _tile - o)).roundToDouble();
         final col = side == 0 ? v : FlyoverAtlas.variants + v;
-        rects.add(Rect.fromLTWH(col * _w * 1.0, layer * _h * 1.0, _w * 1.0, _h * 1.0));
+        // Crop to the layer's widest bank: the rest of the tile is empty and
+        // blending it would only cost fill rate on phones.
+        final cropX = side == 0 ? col * _w : col * _w + _w - width;
+        rects.add(Rect.fromLTWH(cropX * 1.0, layer * _h * 1.0, width * 1.0, _h * 1.0));
         transforms.add(RSTransform.fromComponents(
           rotation: 0,
           scale: _px,
           anchorX: 0,
           anchorY: 0,
-          translateX: side == 0 ? 0 : 360 - _w * _px,
+          translateX: side == 0 ? 0 : 360 - width * _px,
           translateY: top,
         ));
       }
@@ -251,7 +255,7 @@ class FlyoverBackground {
   Iterable<_CritterView> _visibleCritters(int sector) sync* {
     final species = _species(sector);
     if (species.isEmpty) return;
-    final density = .34 + sector * .07;
+    final density = .30 + sector * .05;
     for (var side = 0; side < 2; side++) {
       final o = _layerOffset(2, side);
       final first = ((o - 40) / _critterSegment).floor();
@@ -290,7 +294,7 @@ class FlyoverBackground {
           final world = baseWorld + math.sin(heading) * reach * travel - (state?.dy ?? 0);
           final edge = _edgeAt(sector, 2, side, world);
           final spriteW = (kind.w) * _px;
-          if (edge < spriteW + 6) continue;
+          if (edge < spriteW + 4) continue;
           var x = 3 + _rand(id, 28) * (edge - spriteW - 6) + math.cos(heading) * reach * travel + (state?.dx ?? 0);
           x = x.clamp(2.0, edge - spriteW - 2);
           final y = _screenY(2, side, world);
@@ -334,8 +338,14 @@ class FlyoverBackground {
           s.burrowT = math.max(s.burrowT, 2.6);
         } else {
           final n = d < 1 ? const Offset(1, 0) : away / d;
-          s.fvx = n.dx;
-          s.fvy = n.dy;
+          // Banks are narrow, so the dash runs mainly along the bank: away
+          // from the blast vertically (seeded when it lands level with
+          // them), with only a small sideways component.
+          final vertical = n.dy.abs() > .35
+              ? n.dy.sign
+              : (_rand(v.id, 29) < .5 ? -1.0 : 1.0);
+          s.fvx = n.dx * .45;
+          s.fvy = vertical;
           s.fleeT = 1.1 + (1 - d / radius) * .6;
         }
       }
@@ -344,8 +354,7 @@ class FlyoverBackground {
       if (s.fleeT > 0) {
         s.fleeT -= dt;
         final speed = v.kind.gait == 'crawl' ? 28.0 : 52.0;
-        // Banks are narrow: mostly run along the bank, away from the blast.
-        s.dx += s.fvx * speed * dt * (v.x < 180 ? 1 : -1) * .6;
+        s.dx += s.fvx * speed * dt * (v.x < 180 ? 1 : -1);
         s.dy += s.fvy * speed * dt;
       }
       if (s.duckT > 0) s.duckT -= dt;
@@ -386,7 +395,7 @@ class FlyoverBackground {
         translateX: v.x.roundToDouble(),
         translateY: (v.y - v.kind.h * _px).roundToDouble(),
       ));
-      colors.add(const Color(0xD8FFFFFF));
+      colors.add(const Color(0xC8FFFFFF));
     }
     if (rects.isEmpty) return;
     c.drawAtlas(sheet, transforms, rects, colors, BlendMode.modulate, null, _pixelPaint);

diff --git a/lib/game/sector_background.dart b/lib/game/sector_background.dart
@@ -74,11 +74,13 @@ class SectorBackground {
     }
     if (flyover.ready(near)) {
       flyover.paintShadow(c);
-      c.drawRect(const Rect.fromLTWH(0, 0, 360, 520), _laneVeil);
+      c.drawRect(_laneRect, _laneVeil);
     }
   }
 
   /// Keeps the central firing lane darker than any bank detail.
+  /// Veils only cover the area they darken, to spare phone fill rate.
+  static const _laneRect = Rect.fromLTWH(79, 0, 202, 520);
   static final _laneVeil = Paint()
     ..shader = const LinearGradient(
       colors: [
@@ -87,16 +89,23 @@ class SectorBackground {
         Color(0x52060914),
         Color(0x00060914),
       ],
-      stops: [.22, .40, .60, .78],
-    ).createShader(const Rect.fromLTWH(0, 0, 360, 520));
+      stops: [0, .32, .68, 1],
+    ).createShader(_laneRect);
 
+  /// Recedes the painting's own static horizon below the streaming banks.
+  static const _groundRect = Rect.fromLTWH(0, 234, 360, 286);
   static final _groundVeil = Paint()
     ..shader = const LinearGradient(
       begin: Alignment.topCenter,
       end: Alignment.bottomCenter,
-      colors: [Color(0x00060914), Color(0x00060914), Color(0xB0060914)],
-      stops: [0, .45, .85],
-    ).createShader(const Rect.fromLTWH(0, 0, 360, 520));
+      colors: [Color(0x00060914), Color(0xB0060914), Color(0xB0060914)],
+      stops: [0, .73, 1],
+    ).createShader(_groundRect);
+
+  /// The painted sky drawn pre-darkened (no separate full-screen veil pass).
+  static final _skyPaint = Paint()
+    ..filterQuality = FilterQuality.none
+    ..colorFilter = const ColorFilter.mode(Color(0x8A060914), BlendMode.srcATop);
 
   /// Far layer: the sector's painted sky, drifting at ~0.02x of ground speed
   /// (a slow eased sway, since a painting cannot tile), stars, then the
@@ -111,12 +120,13 @@ class SectorBackground {
   ) {
     final tint = colors[sector];
     final reduced = flyover.reducedMotion;
-    c.drawRect(
-      const Rect.fromLTWH(0, 0, 360, 520),
-      Paint()..color = const Color(0xFF070B16),
-    );
     final image = images[sector] ?? fallback;
-    if (image != null) {
+    if (image == null) {
+      c.drawRect(
+        const Rect.fromLTWH(0, 0, 360, 520),
+        Paint()..color = const Color(0xFF070B16),
+      );
+    } else {
       final imageRatio = image.width / image.height;
       const ratio = 360 / 520;
       final source = imageRatio > ratio
@@ -139,13 +149,9 @@ class SectorBackground {
         image,
         source,
         Rect.fromLTWH(-16, dy, 392, 520 + sway),
-        Paint()..filterQuality = FilterQuality.none,
+        _skyPaint,
       );
-      c.drawRect(
-        const Rect.fromLTWH(0, 0, 360, 520),
-        Paint()..color = const Color(0x8A060914),
-      );
-      c.drawRect(const Rect.fromLTWH(0, 0, 360, 520), _groundVeil);
+      c.drawRect(_groundRect, _groundVeil);
     }
     final random = math.Random(1982 + sector * 709 + cycle * 41);
     final starTime = reduced ? 0.0 : time;

diff --git a/test/flyover_background_test.dart b/test/flyover_background_test.dart
@@ -183,6 +183,43 @@ void main() {
     });
   });
 
+  testWidgets('review sheet: every sector and named route, with combat',
+      (tester) async {
+    await tester.runAsync(() async {
+      final model = ArcadeModel()..start();
+      model.mode = RunMode.playing;
+      final scene = await _scene(model);
+      scene.atlas = await _decode('assets/images/combat.png');
+      final recorder = ui.PictureRecorder();
+      final sheet = ui.Canvas(recorder);
+      for (var sector = 0; sector < 5; sector++) {
+        for (var route = 0; route < 5; route++) {
+          model.level = sector + 1;
+          model.cycle = route;
+          scene.environment = sector.toDouble();
+          scene.sectors.flyover.distance = 700 + route * 433.0;
+          final recorderCell = ui.PictureRecorder();
+          scene.paintArena(ui.Canvas(recorderCell), Vector2(360, 520));
+          final picture = recorderCell.endRecording();
+          sheet.save();
+          sheet.translate(route * 364.0, sector * 524.0);
+          sheet.drawPicture(picture);
+          sheet.restore();
+          picture.dispose();
+        }
+      }
+      final picture = recorder.endRecording();
+      final image = await picture.toImage(5 * 364, 5 * 524);
+      final file = File('.cache/flyover/review-routes.png');
+      await file.parent.create(recursive: true);
+      await file.writeAsBytes(
+        (await image.toByteData(format: ui.ImageByteFormat.png))!.buffer.asUint8List(),
+      );
+      image.dispose();
+      picture.dispose();
+    });
+  });
+
   testWidgets('creatures scatter from explosions and duck under the ship shadow',
       (tester) async {
     await tester.runAsync(() async {
@@ -204,7 +241,14 @@ void main() {
       scene.sectors.advance(1 / 60, model, 2);
       expect(flyover.reactingCreatures, greaterThan(0));
       expect(model.blasts, hasLength(simulated), reason: 'visual only');
-      await _capture(scene, output: '.cache/flyover/reacting.png');
+      await File('.cache/flyover/reacting-target.txt')
+          .writeAsString('${target.dx} ${target.dy}');
+      for (var f = 0; f < 6; f++) {
+        await _capture(scene, output: '.cache/flyover/reacting-$f.png');
+        for (var k = 0; k < 6; k++) {
+          scene.sectors.advance(1 / 60, model, 2);
+        }
+      }
       expect(before, isNotEmpty);
 
       // Shadow: move the ship over a low creature and let the frame update.

diff --git a/tools/flyover_assets.py b/tools/flyover_assets.py
@@ -554,6 +554,21 @@ def process_sprite(jid, target_h, pal, cap, max_w=None, chroma=1.0):
     return rgba
 
 
+def outline(rgba: np.ndarray, pal: np.ndarray) -> np.ndarray:
+    """One-pixel outline in the palette's darkest colour, so tiny creatures
+    separate from the bank texture without being brightened."""
+    a = rgba[..., 3] > 0
+    padded = np.zeros((rgba.shape[0] + 2, rgba.shape[1] + 2, 4), dtype=np.uint8)
+    padded[1:-1, 1:-1] = rgba
+    pa = np.zeros(padded.shape[:2], dtype=bool)
+    pa[1:-1, 1:-1] = a
+    ring = (np.roll(pa, 1, 0) | np.roll(pa, -1, 0) | np.roll(pa, 1, 1) | np.roll(pa, -1, 1)) & ~pa
+    dark = pal[np.argmin(pal.sum(1))].astype(np.uint8)
+    padded[ring, :3] = dark
+    padded[ring, 3] = 255
+    return padded
+
+
 def creature_frames(base: np.ndarray, gait: str) -> list[np.ndarray]:
     """Discrete pixel frames from one generated creature pose.
 
@@ -632,8 +647,9 @@ def cmd_process(_args) -> dict:
                 if r is not None:
                     sec["landmarks"].append({"id": lm["id"], "route": ri, "rgba": r})
         for cr in sector["creatures"]:
-            r = process_sprite(f"creature/{sector['id']}/{cr['id']}", cr["h"], pal, 0.42, max_w=cr["h"] + 5, chroma=0.5)
+            r = process_sprite(f"creature/{sector['id']}/{cr['id']}", cr["h"], pal, 0.36, max_w=cr["h"] + 5, chroma=0.28)
             if r is not None:
+                r = outline(r, pal)
                 sec["creatures"].append({"id": cr["id"], "gait": cr["gait"], "frames": creature_frames(r, cr["gait"])})
         result["sectors"].append(sec)
     return result
@@ -745,6 +761,10 @@ def write_dart(s, sectors, items, meta, pos, cmeta, cpos):
         f"  static const stripWidth = {lw}, stripHeight = {lh}, variants = {s['strip']['variants']};",
         "  static const layers = ['mid', 'near', 'ground'];",
         "  static const layerSpeeds = [" + ", ".join(str(s["layers"][l]["speed"]) for l in LAYERS) + "];",
+        "  /// Widest bank per layer (logical px): strips are drawn cropped to it.",
+        "  static const layerWidths = [" + ", ".join(
+            str(min(lw, 1 + max([max(e) for sec in sectors for e in sec["edges"][li]] or [lw])))
+            for li in range(len(LAYERS))) + "];",
         "  static const sectors = [" + ", ".join(f"'{x['id']}'" for x in sectors) + "];",
         "  /// Bank edge (logical x) for each sector/layer/variant/row; strips are left banks.",
         "  static const edges = <List<List<String>>>[",

diff --git a/plan/asset-pipeline.md b/plan/asset-pipeline.md
@@ -57,15 +57,15 @@ placeholders (`$prompt`, `$negative_prompt`, `$seed`, `$strength`, `$init_image`
    foreground band, cliff faces below protrusions are darkened. img2img at
    strength 0.8 turns this into canyon-rim terrain with 3/4 cliff walls.
 2. **Strips.** The rolled seamless sheet is box-downscaled to logical size,
-   un-rolled, brightness-normalised under the layer's luminance cap (mid 0.15,
-   near 0.21, ground 0.27) and snapped to the sector palette restricted to
+   un-rolled, brightness-normalised under the layer's luminance cap (mid 0.13,
+   near 0.18, ground 0.23) and snapped to the sector palette restricted to
    colours under that cap. Alpha follows the generated cliffs (non-void pixels)
    inside a dilated layout, is filled in the layout interior, and keeps only
    pixels connected to the outer screen edge; a one-pixel lit lip marks the drop.
    The final per-row edge is exported for runtime placement.
 3. **Sprites.** LayerDiffuse alpha → bbox crop → box downscale to the spec's
    logical height (max widths keep the lane clear) → palette quantise under a
-   cap (landmarks 0.44, props 0.36, creatures 0.42) → binary alpha → despeckle.
+   cap (landmarks 0.40, props 0.34, creatures 0.36) and a chroma cap (creatures 0.28) (saturated warm colours are reserved for hostile fire) → binary alpha → despeckle; creatures get a one-pixel outline in the darkest palette colour.
 4. **Creatures.** One generated pose per species becomes eight discrete frames
    on the logical grid: a four-frame walk (legs alternate, body bobs), crawl
    (one-pixel peristaltic column ripple) or burrow gait; two duck frames

diff --git a/plan/style-guide.md b/plan/style-guide.md
@@ -59,9 +59,9 @@ Every sector is an endless oblique 3/4 flyover down a canyon: the ship flies for
 | Layer | Speed | Content | Luminance cap |
 | --- | --- | --- | --- |
 | Far | ~0.02× (slow eased sway) | The sector's painted sky (`sector-N.png`): planets, moons, nebulae; sparse stars; its painted horizon is veiled | painting under a 54% veil |
-| Mid | 0.2× | Ridge/mountain banks along both edges | 0.15 |
-| Near | 0.6× | Terrain banks plus route landmarks | 0.21 (landmarks 0.44) |
-| Ground | 1.0× | Closest banks, small props, creatures, the ship's shadow | 0.27 (props 0.36, creatures 0.42) |
+| Mid | 0.2× | Ridge/mountain banks along both edges | 0.13 (chroma ≤ 0.22) |
+| Near | 0.6× | Terrain banks plus route landmarks | 0.18, chroma ≤ 0.25 (landmarks 0.40) |
+| Ground | 1.0× | Closest banks, small props, creatures, the ship's shadow | 0.23, chroma ≤ 0.27 (props 0.34, creatures 0.36, chroma ≤ 0.28, dark outline) |
 
 - Layers are composable for any session length: seamless vertically tiling strips (three variants per layer per sector, never the same variant twice in a row, mirrored for the right bank) and a library of landmark/prop sprites placed by seeded, stateless scattering per fixed segment. The same distance draws the same picture on every device.
 - The central lane stays dark and clear: banks occupy the outer edges, a horizontal lane veil darkens the middle, and background luminance stays below threats, projectiles and cores.

diff --git a/plan/roadmap.md b/plan/roadmap.md
@@ -11,3 +11,4 @@ Work branch: `game`. Production `main` remains unchanged until stable.
 Tracked implementation tasks: `openspec/changes/build-demon-attack-game/tasks.md`.
 Current design and tunables: `game-design.md`. Art direction: `style-guide.md`.
 Historical references and screenshots: `research-original.md`.
+6. Flyover backgrounds (branch `work/parallax-flyover`): left — eyeball the flyover on a real phone GPU (headless host Chromium is software-rendered: ~2x slower than the old background there), consider pre-baking the veiled sky per sector if real devices drop frames, and replace the weakest generated landmarks (Ringfall Patrol Belt sphere/gate, Ember Forges channel) by rerunning their jobs with new prompts (`tools/flyover_assets.py run --only landmark/...`).
